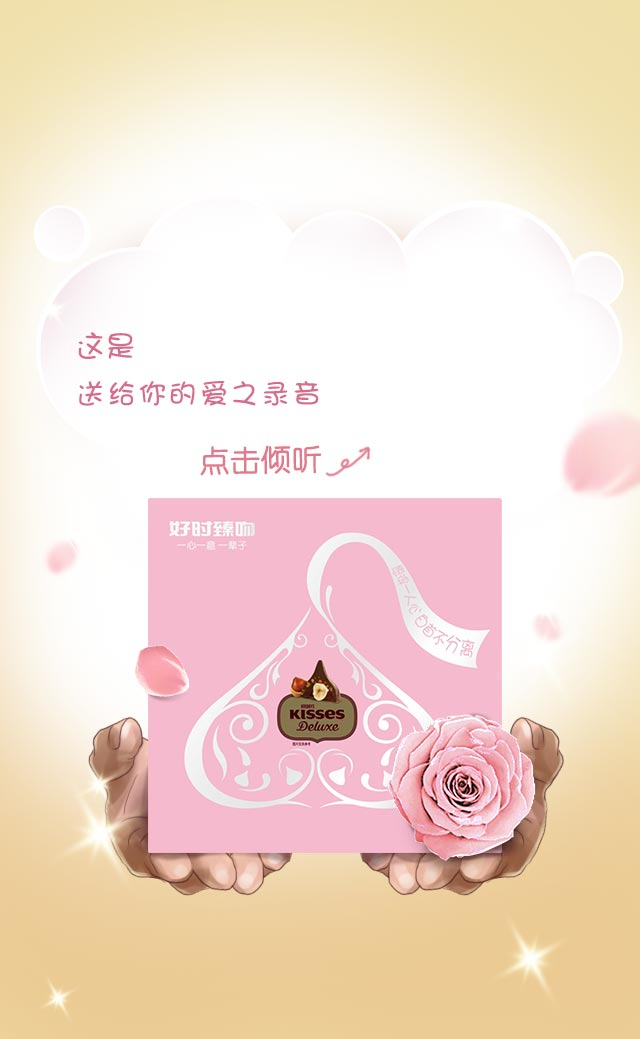
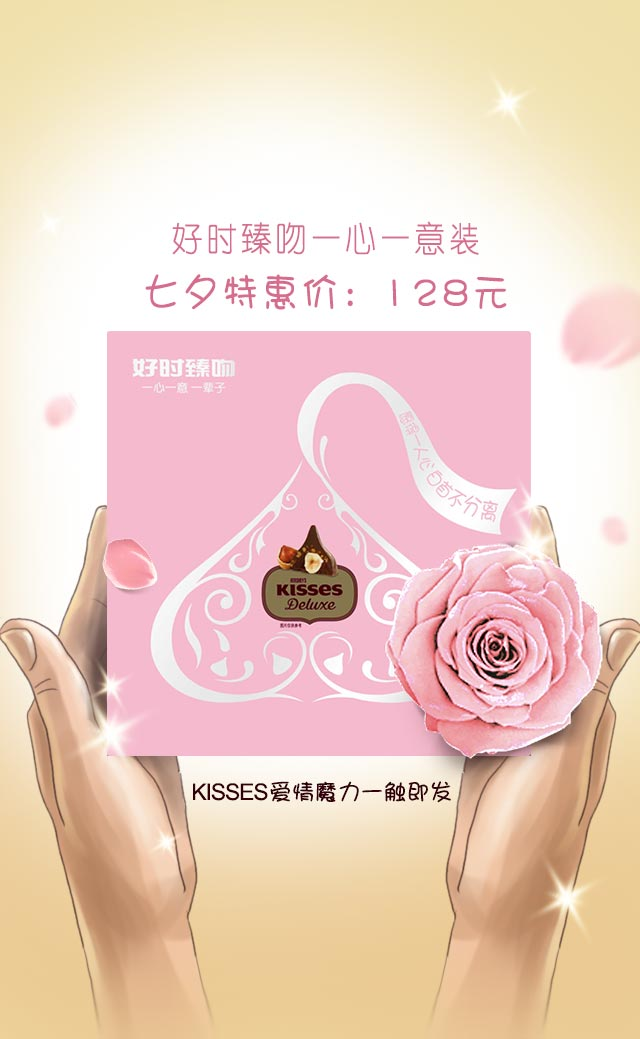
update

diff --git a/K11_start/sender-step6.html b/K11_start/sender-step6.html
@@ -18,9 +18,9 @@
     <div class="wrapper">
         <div class="step p6">
             <!--根据需要生成图片-->
-            <!--<img src="images/content/step5-A.jpg" class="stepBg" />-->
-            <img src="images/content/step5-B.jpg" class="stepBg" />
-            <!--<img src="images/content/step5-C.jpg" class="stepBg" />-->
+            <!--<img src="images/content/step6-A.jpg" class="stepBg" />-->
+            <!--<img src="images/content/step6-B.jpg" class="stepBg" />-->
+            <img src="images/content/step6-C.jpg" class="stepBg" />
             <img src="images/content/btn-buy.png" class="btnNext buy" />
             <img src="images/content/btn-share.png" class="share big" />
         </div>
